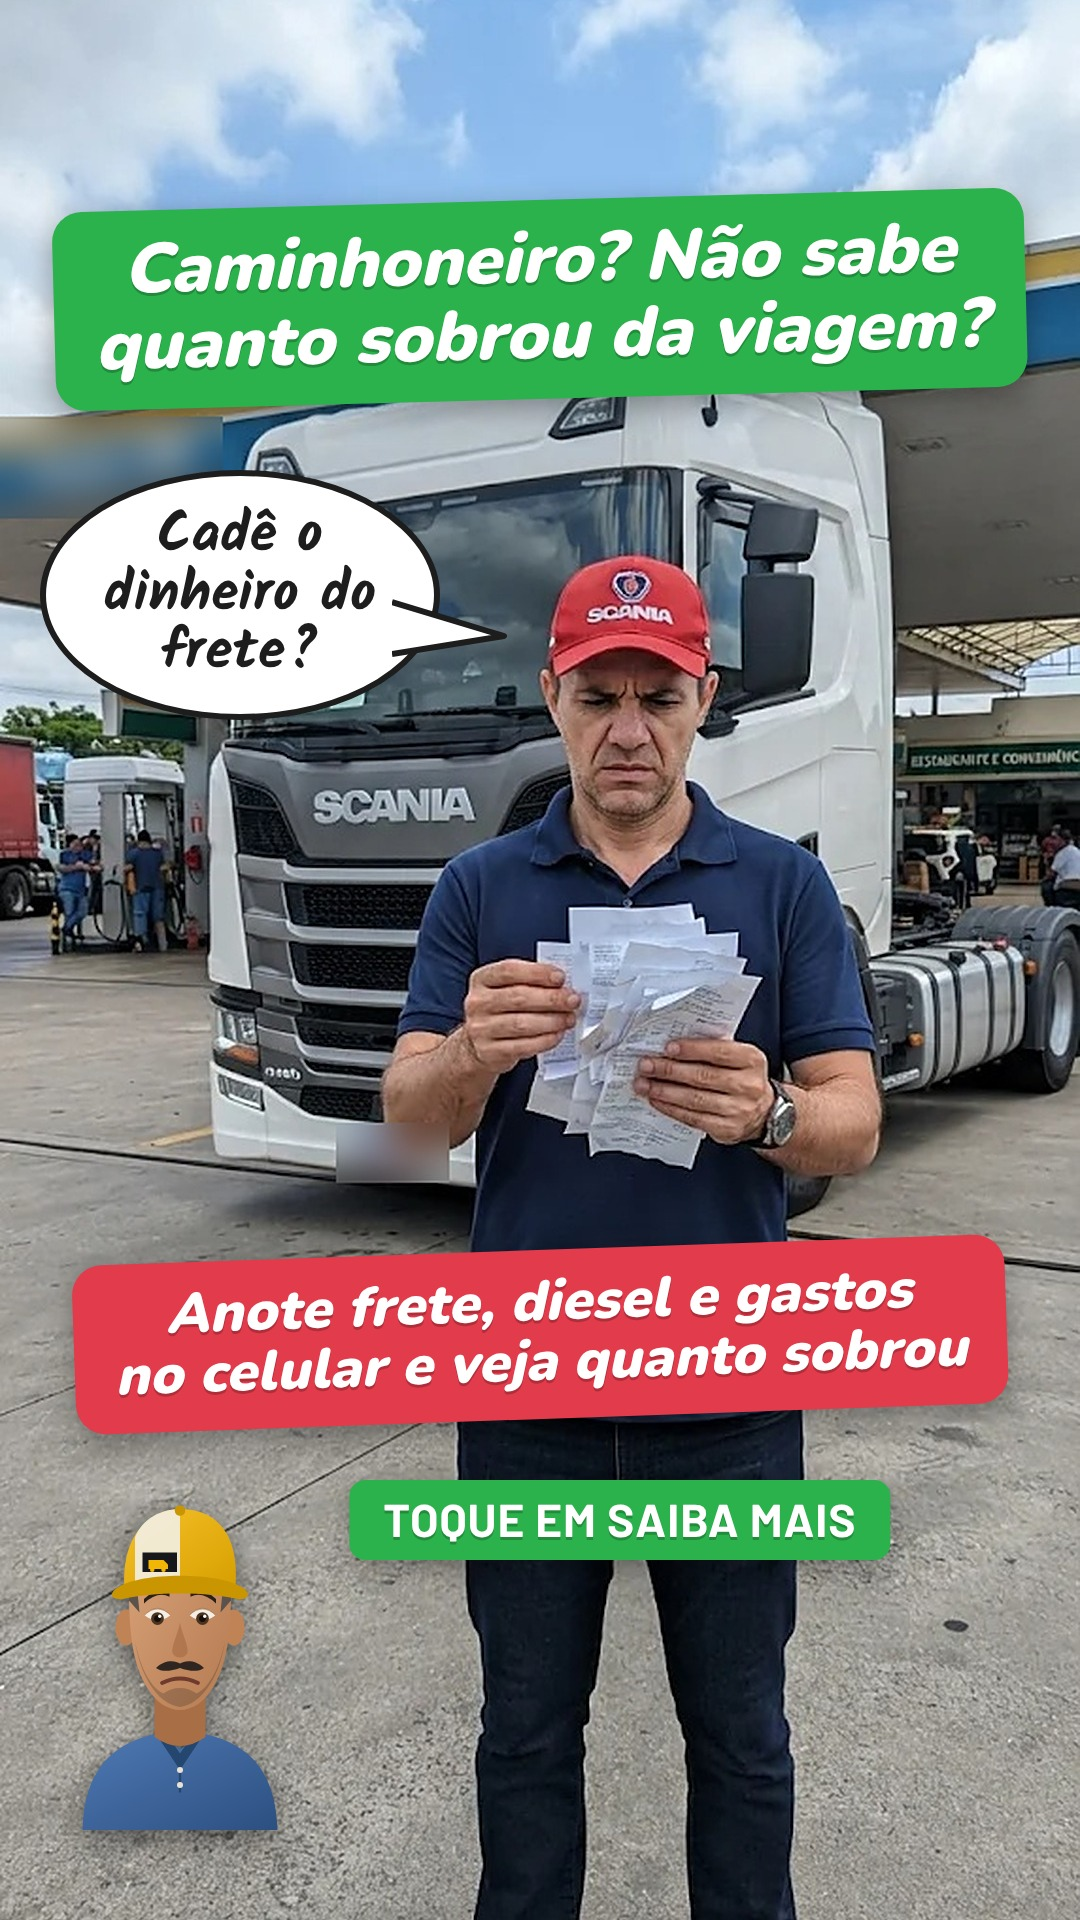
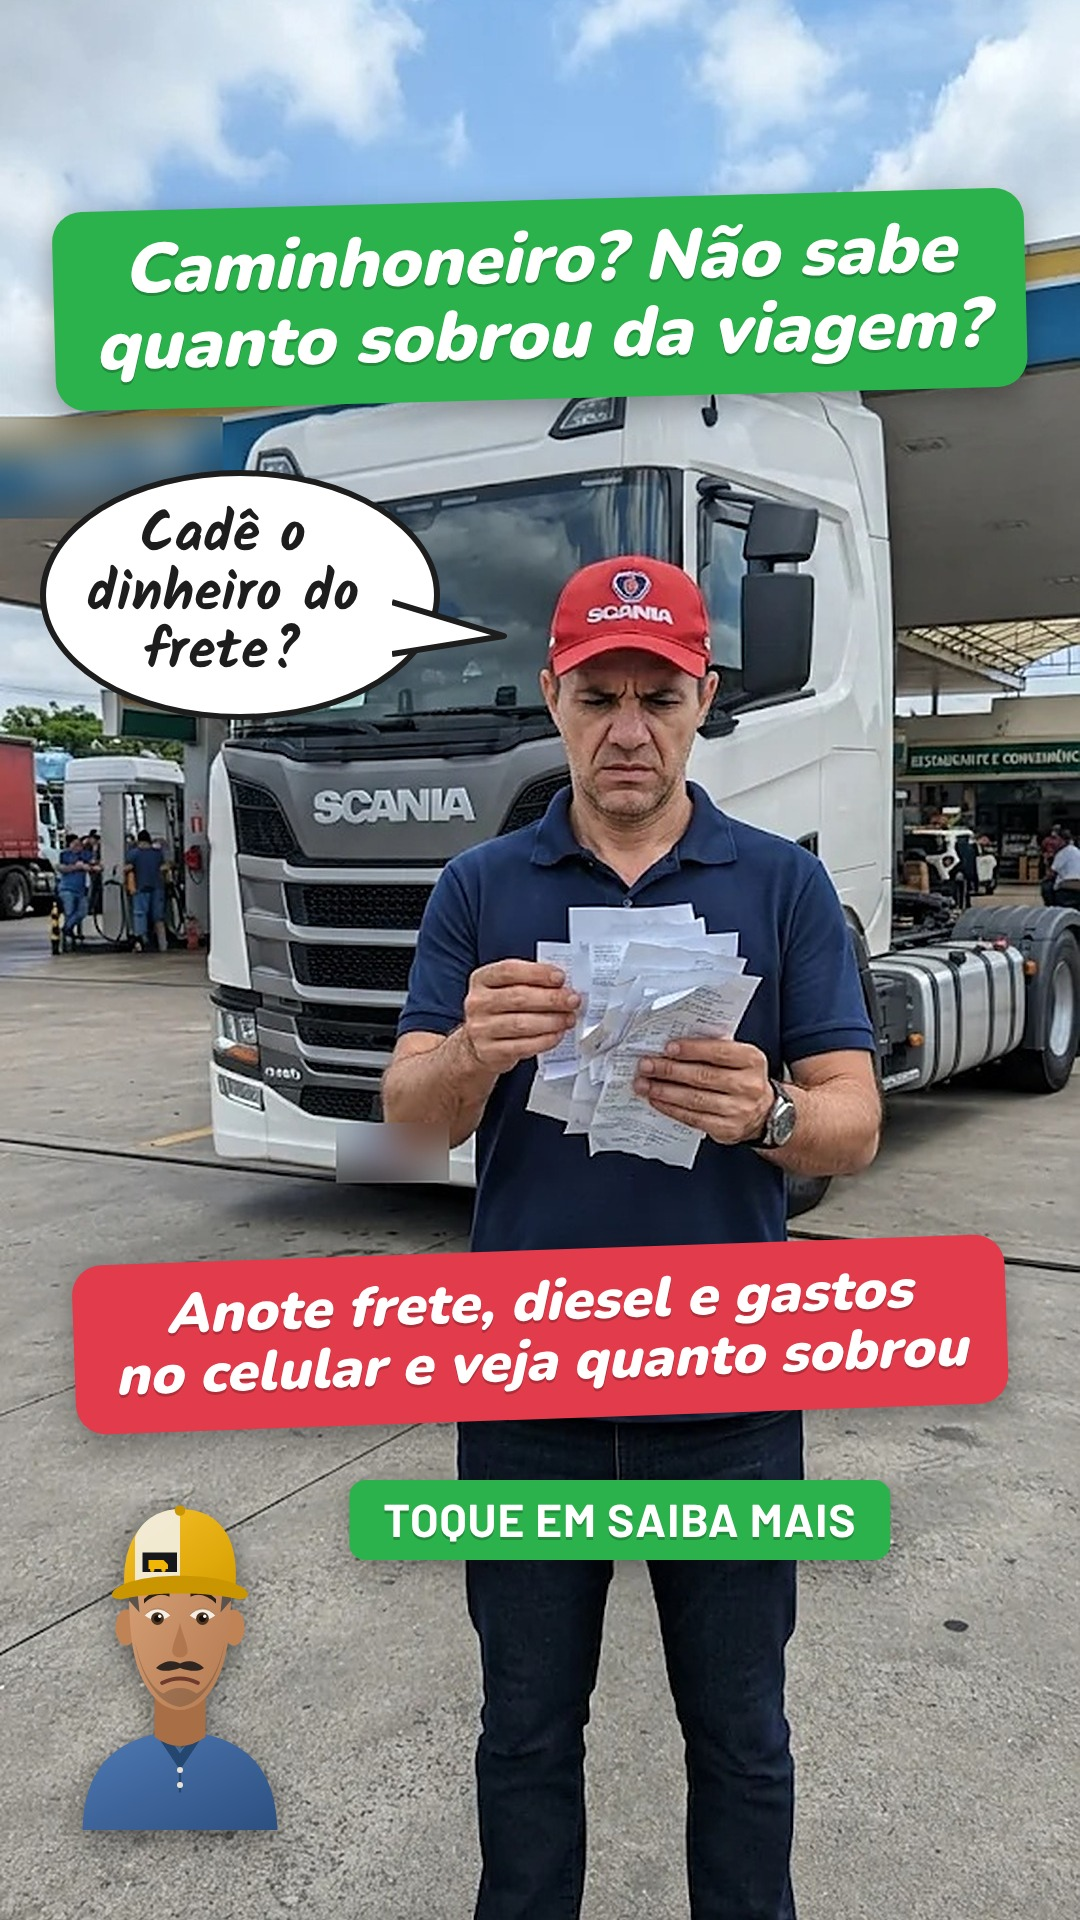
Criativos dor: texto do balao longe da cauda
Claude-Session: https://claude.ai/code/session_01NoyFaCbiHNtNtFnmVnZDak

Changed region(s): [[0.0917, 0.25, 0.3361, 0.3438]]

diff --git a/marketing/anuncios/criativo-dor/src/arte.html b/marketing/anuncios/criativo-dor/src/arte.html
@@ -15,7 +15,7 @@ html,body{background:#000}
 .vermelha{background:#e23b4b}
 .cta{background:#2bb24c;font-family:Barlow;font-style:normal;font-weight:700;letter-spacing:.02em;border-radius:16px;padding:14px 34px 16px}
 .balao{position:absolute;background:#fff;border:6px solid #1d1d1d;border-radius:50%;display:flex;align-items:center;justify-content:center;text-align:center;
-  font-family:Kalam;font-weight:700;color:#1d1d1d;line-height:1.05;padding:30px}
+  font-family:Kalam;font-weight:700;color:#1d1d1d;line-height:1.05;padding:30px 56px 30px 22px}
 .balao svg{position:absolute}
 #ze{position:absolute;filter:drop-shadow(0 8px 14px rgba(0,0,0,.45))}
 </style></head><body>
